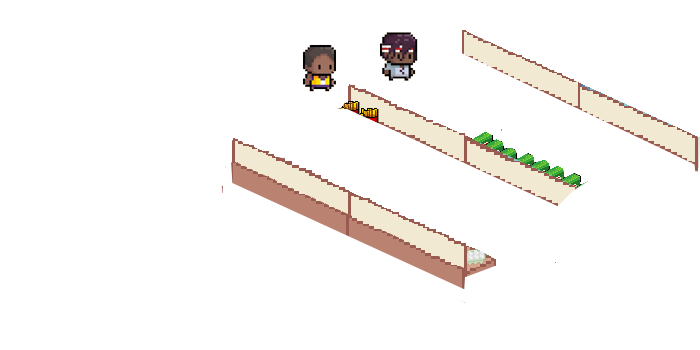
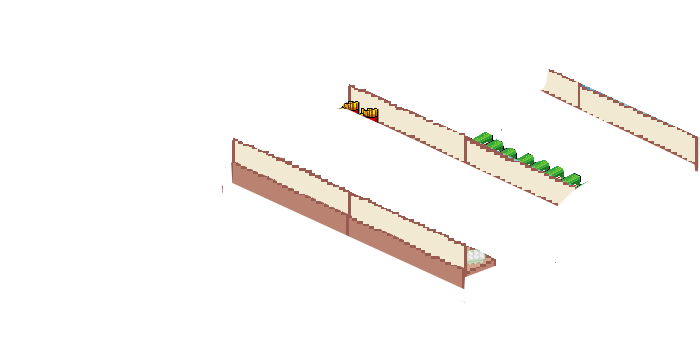
finished first game and added comments

Changed region(s): [[0.66, 0.0857, 0.78, 0.2571], [0.54, 0.0857, 0.6, 0.2286], [0.42, 0.1143, 0.48, 0.2571]]

diff --git a/sketch.js b/sketch.js
@@ -3,6 +3,11 @@ let player;
 let complemetaryObjs
 let screensCounter = 0;
 
+//Variables del primer juego
+let phasesGameOne = -1;
+let objectPanaderia;
+let choosenColorGameOne = false;
+
 function preload() {
   mainMenu = loadImage("./assets/mainMenu.png");
   instruction = loadImage("./assets/instructions.png");
@@ -15,6 +20,11 @@ function preload() {
   managerObject = [loadImage("./assets/manager_right.png"), loadImage("./assets/manager_left.png"), loadImage("./assets/manager_back.png")];
   // Pos 0 = right, 1 = left, 2= back
   characterObject = [loadImage("./assets/woman_right.png"), loadImage("./assets/woman_left.png"), loadImage("./assets/woman_back.png")];
+
+      //Cosas del primer juego
+  locationIndicator = loadImage("./assets/location.png");
+  gameOneDialogues = [loadImage("./assets/game1-dialogue1.png"), loadImage("./assets/chooserGameOne.png")]
+  gameOneAssets = [loadImage("./assets/panaderia_rojo.png"), loadImage('./assets/panaderia_amarilla.png'), loadImage('./assets/panaderia_azul.png'), loadImage('./assets/preGameOne.png')]
 }
 
 function setup() {
@@ -31,9 +41,12 @@ function setup() {
   ]
  
 }
-
 function draw() {
-  console.log('mouseX: ' + mouseX + ' mouseY: ' + mouseY)
+
+  //!!!!! console.log importantes.
+
+  //console.log('mouseX: ' + mouseX + ' mouseY: ' + mouseY)
+  //console.log('x: ' + player.getX() + ' y: ' + player.getY());
   
  
   switch (screensCounter) {
@@ -43,46 +56,74 @@ function draw() {
       break;
     //Instrucciones
     case 1:
-    image(instruction, 0, 0)
+      image(instruction, 0, 0)
       break;
-    //Primer juego
+    //Primer juego - Poveda
     case 2:
+      image(background, 0, 0);
 
+      if ((player.getX() === 220 || player.getX() === 230) && player.getY() === 90 && phasesGameOne == 0) {
+        //console.log(player.getState());
+        
+        player.setState(2);
+        image(gameOneDialogues[0], 0, 0)
+      } else if (phasesGameOne == 0) {
+        image(locationIndicator, 0, 0);
+      }
+
+      if (phasesGameOne === 1) {
+        image(gameOneDialogues[1], 0, 0)
+      }
+
+      console.log(phasesGameOne)
+      
+      
+      
+      image(managerObject[1], 260, 80)
+
+      if (phasesGameOne < 0) {
+        image(gameOneAssets[3], 0, 0)
+      }
+      
       break;
-    //Segundo juego 
+    //Segundo juego - Sebastian
     case 3:
-
+      image(background, 0, 0);
+      
       break;
-    //Tercer juego
+    //Tercer juego - Poveda
     case 4:
 
       break;
-    //Cuarto juego
+    //Cuarto juego - Sebastian
     case 5:
 
       break;
-    //Quinto juego 
+    //Quinto juego - Poveda
     case 6:
 
       break;
   }
 
   
-
-  if (screensCounter > 1) { 
-    image(background, 0, 0);
+//Opciones para pintar las cosas que se mueven despues de las dos primeras pantallas.
+  if (screensCounter > 1 ) {
     player.draw();
     player.hit(complemetaryObjs[0]);
-    image(stantesObject, 0, 0);
-    image(secondCharObject, 0, 0);
-    //  objTest2.draw();
-    //objTest3.draw();
+  
     for (let i = 1; i < complemetaryObjs.length; i++) {
       player.hit2(complemetaryObjs[i]);
-      //complemetaryObjs[i].draw();
+    }
+
+    //Imagenes para darle tridimensionalidad
+    if ((phasesGameOne == 0 && screensCounter == 2) || screensCounter > 2) {
+      image(stantesObject, 0, 0);
+      image(secondCharObject, 0, 0);
     }
   }
- 
+
+  //Aqui queda el color def de la panaderia
+  colorDefPanaderia();
 }
 
 function mousePressed() {
@@ -102,7 +143,7 @@ function mousePressed() {
       break;
     //Instrucciones
     case 1:
-      if (mouseX > 550 && mouseX < 680 && mouseY > 303 && mouseY < 333) {
+      if (mouseX > 279 && mouseX < 414 && mouseY > 298 && mouseY < 333) {
         console.log("pasar")
         screensCounter = 2;
       }
@@ -110,6 +151,39 @@ function mousePressed() {
     //Primer juego
     case 2:
 
+      if (phasesGameOne < 0) { 
+        phasesGameOne = 0;
+      }
+      if (mouseX > 477 && mouseX < 525 && mouseY > 80 && mouseY < 127) {
+        phasesGameOne = 1;
+        console.log(phasesGameOne)
+      }
+
+      //Rojo
+      if (phasesGameOne == 1 && mouseX > 553 && mouseX < 644 && mouseY > 111 && mouseY < 149) {
+        objectPanaderia = 0;
+        choosenColorGameOne = true;
+
+      }
+
+      //Amarillo
+      if (phasesGameOne == 1 && mouseX > 553 && mouseX < 644 && mouseY > 176 && mouseY < 205) {
+        objectPanaderia = 1;
+        choosenColorGameOne = true;
+      }
+
+      //Azul
+      if (phasesGameOne == 1 && mouseX > 553 && mouseX < 644 && mouseY > 236 && mouseY < 270) {
+        objectPanaderia = 2;
+        choosenColorGameOne = true;
+      }
+
+      //Siguiente
+      if (choosenColorGameOne == true && mouseX > 610 && mouseX < 644 && mouseY > 291 && mouseY < 332) { 
+        player.setX(20)
+        player.setY(30)
+        screensCounter = 3;
+      }
       break;
     //Segundo juego 
     case 3:
@@ -131,7 +205,8 @@ function mousePressed() {
 }
 
 function keyPressed() {
-// if (player.hit(objTest) === false) {
+
+  if (screensCounter > 1) { 
     switch (keyCode) {
       case 87:
         player.move(0);
@@ -149,6 +224,22 @@ function keyPressed() {
         player.move(3);
         break;
     }
+  }    
   //}
 		
+}
+
+//Funcion para dejar la panaderia durante todo el juego
+function colorDefPanaderia() { 
+  if (objectPanaderia === 0) {
+    image(gameOneAssets[0], 0, 0);
+  }
+
+  if (objectPanaderia === 1) {
+    image(gameOneAssets[1], 0, 0);
+  }
+
+  if (objectPanaderia === 2) {
+    image(gameOneAssets[2], 0, 0);
+  }
 }

diff --git a/src/player.js b/src/player.js
@@ -16,7 +16,7 @@ class Player {
 		this.center = [this.x + this.width / 2, this.y + this.height / 2];
 		image(this.imageObject[this.state], this.x, this.y, this.width, this.height);
 		fill(255);
-		circle(this.center[0], this.center[1], 30)
+		//circle(this.center[0], this.center[1], 30)
 	}
 
 	move(input) {
@@ -56,20 +56,17 @@ class Player {
 
 		//0 = X esquina izquierda, 1 = y esquina izquierda, 2 = X esquina derecha, 3 = y esquina derecha
 		//4 = X esquina derecha abajo, 5 = Y esquina derecha abajo, 6 = X esquina izquierda abajo, 7 = Y esquina izquierda abajo
-		if (this.center[0] > getPos[0] && this.center[0] < getPos[4] && this.center[1] > getPos[3] && this.center[1] < getPos[7]) {
+		if (this.center[0] > getPos[0] && this.center[0] < getPos[4] && this.center[1] > getPos[3] && this.center[1] < getPos[7]-20) {
 			this.x = this.x - 10;
 			if (this.y - 10 < getPos[7]) {
 				this.y = this.y + 10;
 			} else {
 				this.y = this.y - 10;
 			}
-		} 
-		/*if (this.center[0] >= getPos[0] && this.center[1] >= getPos[1] && this.center[1] <= getPos[5]) {
-		console.log("hit-left")
-	}*/
+		}
 	}
 
-	hit2(object) { 
+	hit2(object) {
 		
 		let getPos = object.getPos();
 
@@ -77,7 +74,7 @@ class Player {
   
 		//0 = X esquina izquierda, 1 = y esquina izquierda, 2 = X esquina derecha, 3 = y esquina derecha
 		//4 = X esquina derecha abajo, 5 = Y esquina derecha abajo, 6 = X esquina izquierda abajo, 7 = Y esquina izquierda abajo
-		if (this.center[0] > getPos[0] - 20&& this.center[0] < getPos[2] && this.center[1] > getPos[3] - 20 && this.center[1] < getPos[7] + 20) {
+		if (this.center[0] > getPos[0] - 20 && this.center[0] < getPos[2] && this.center[1] > getPos[3] - 20 && this.center[1] < getPos[7] + 20) {
 			this.x = this.x - 10;
 			console.log("hit2");
 			if (this.y + 10 < getPos[7]) {
@@ -89,10 +86,26 @@ class Player {
 			return false;
 		}
 	}
+
+	getX() { 
+		return this.x
+	}
+
+	getY() { 
+		return this.y
+	}
+	
 	setX(x) { 
 		this.x = x;
 	}
 	setY(y) { 
 		this.y = y;
+	}
+
+	getState() { 
+		return this.state;
+	}
+	setState(e) { 
+		this.state = e;
 	}
 }

diff --git a/index.html b/index.html
@@ -7,6 +7,7 @@
 * {
 	margin:0;
 	border:0;
+	background-color: black;
 }
 </style>
  </head>
